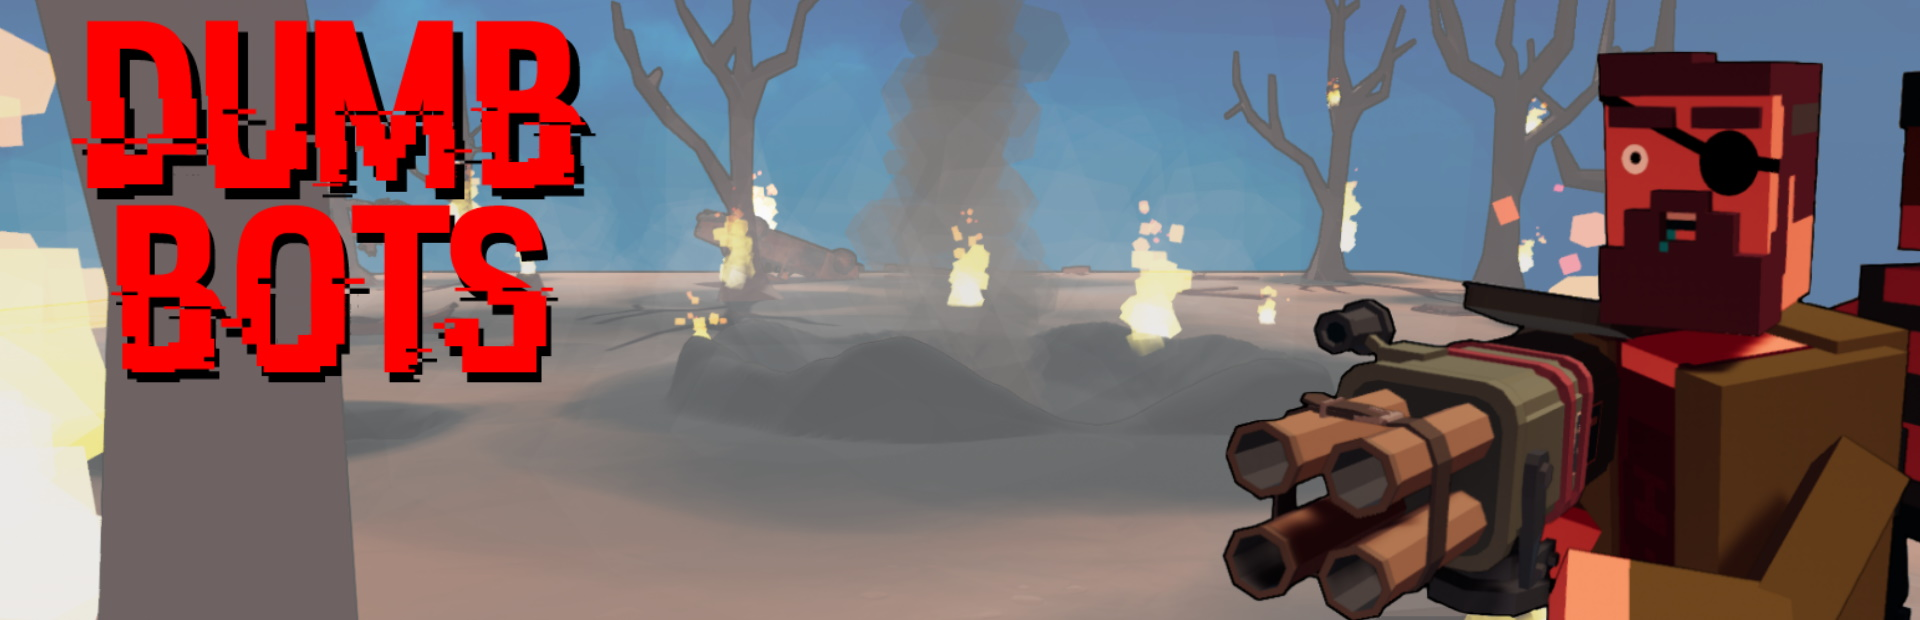
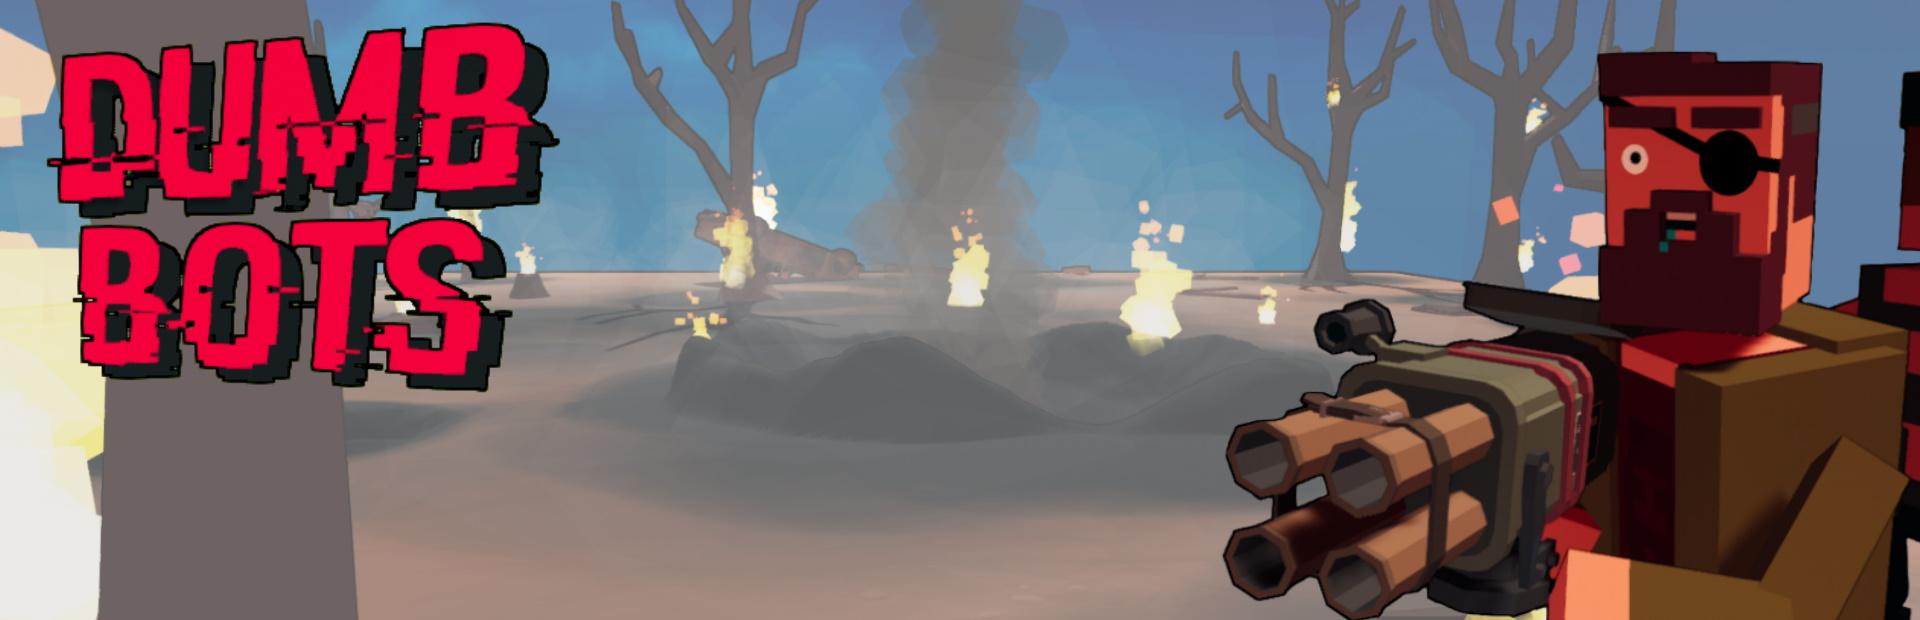
header

Changed region(s): [[0.0, 0.0306, 0.3125, 0.6435]]

diff --git a/_layouts/dumbbots.html b/_layouts/dumbbots.html
@@ -49,7 +49,7 @@
 				</ul>
 			</div>
 			<div class="uk-width-medium-3-4" id="content">
-				<img src="/Images/DumbBots2020/promo5.png" class="header">
+				<img src="/Images/DumbBots2020/header.jpg" class="header">
 				<div class="uk-grid">
 					<div class="uk-width-medium-2-6">
 						<h2 id="factsheet">Factsheet</h2>
@@ -59,7 +59,7 @@
 						<p><strong>Release date:</strong><br>
 						2020</p>
 						<p><strong>Platforms:</strong><br>
-						<a href="https://store.steampowered.com/app/420850">Steam</a><br></p>
+						<a href="https://store.steampowered.com/app/1232890/DumbBots/">Steam</a><br></p>
 						<p><strong>Website:</strong><br>
 						<a href="https://mikehall.co.za/dumbbots">mikehall.co.za/dumbbots</a></p>
 						<p><strong>Regular Price:</strong><br></p>
